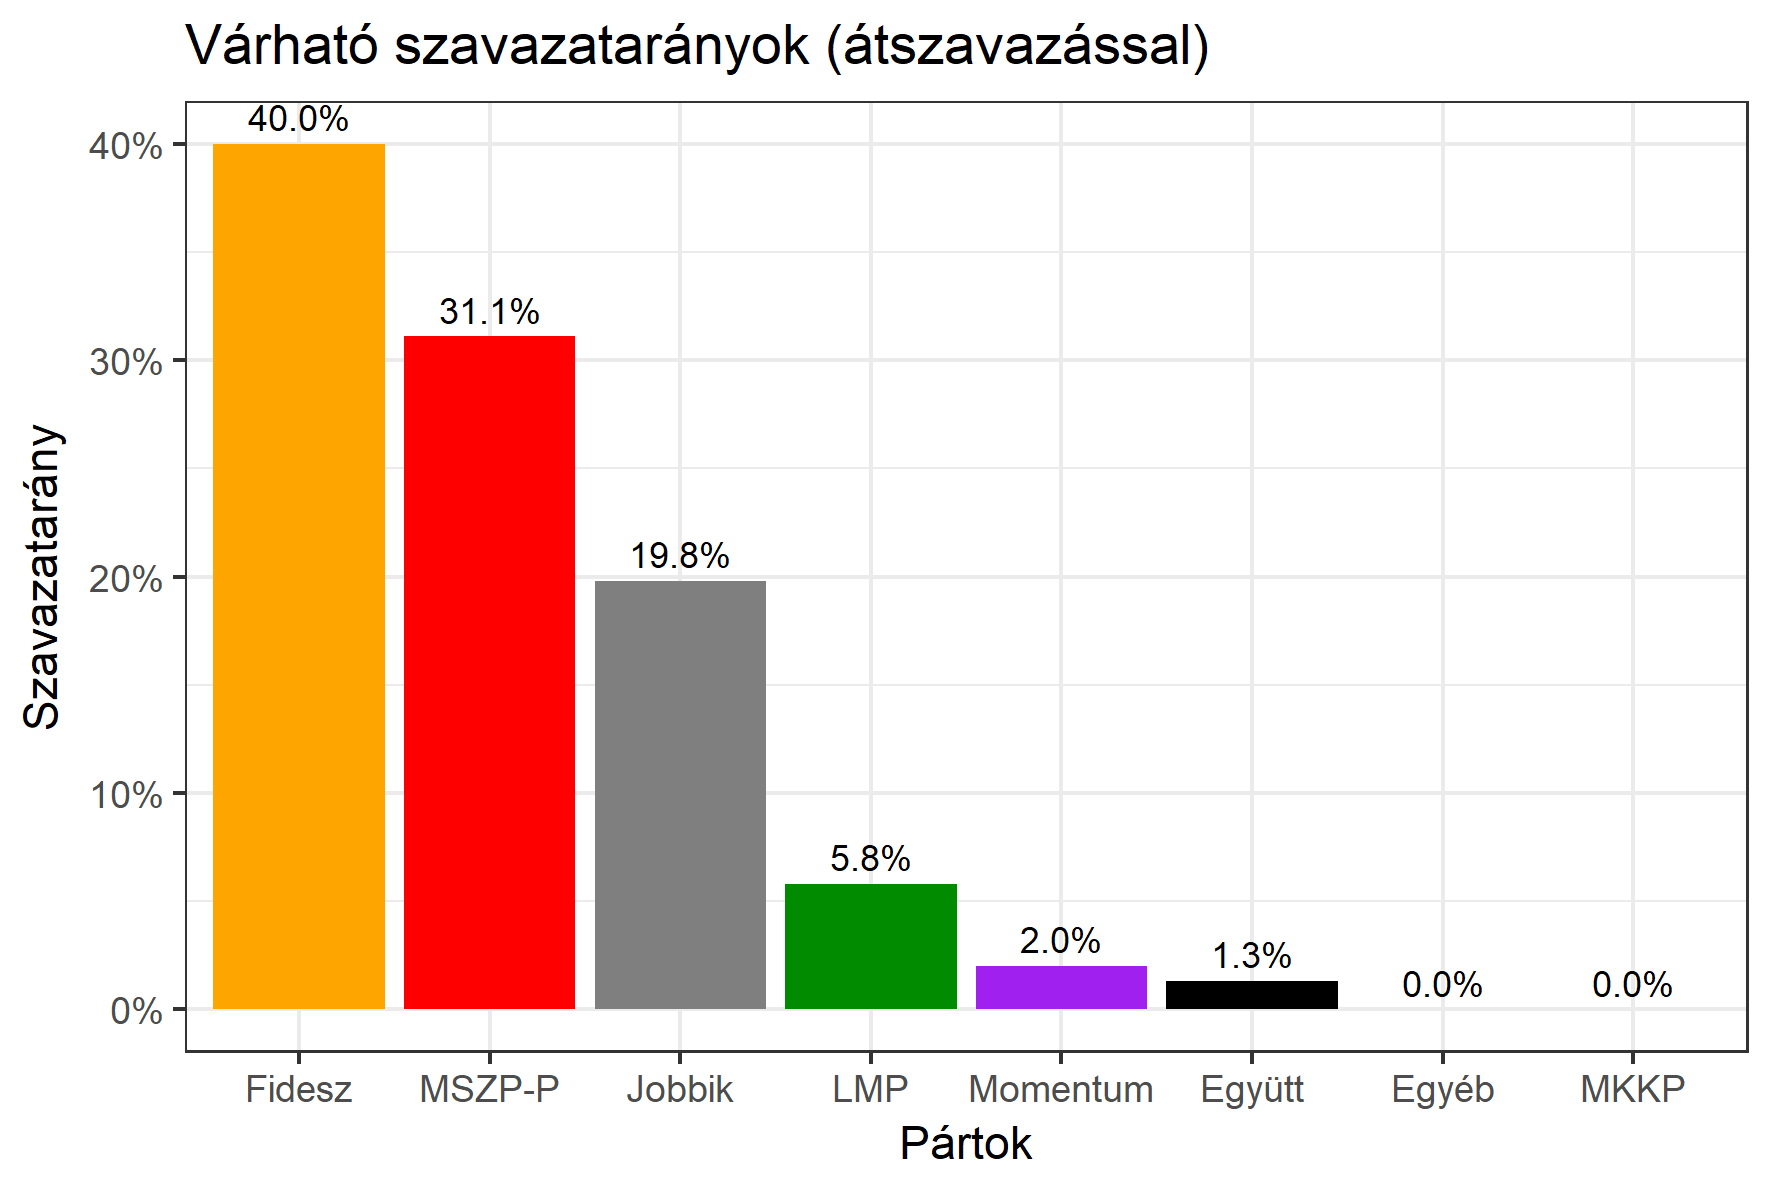
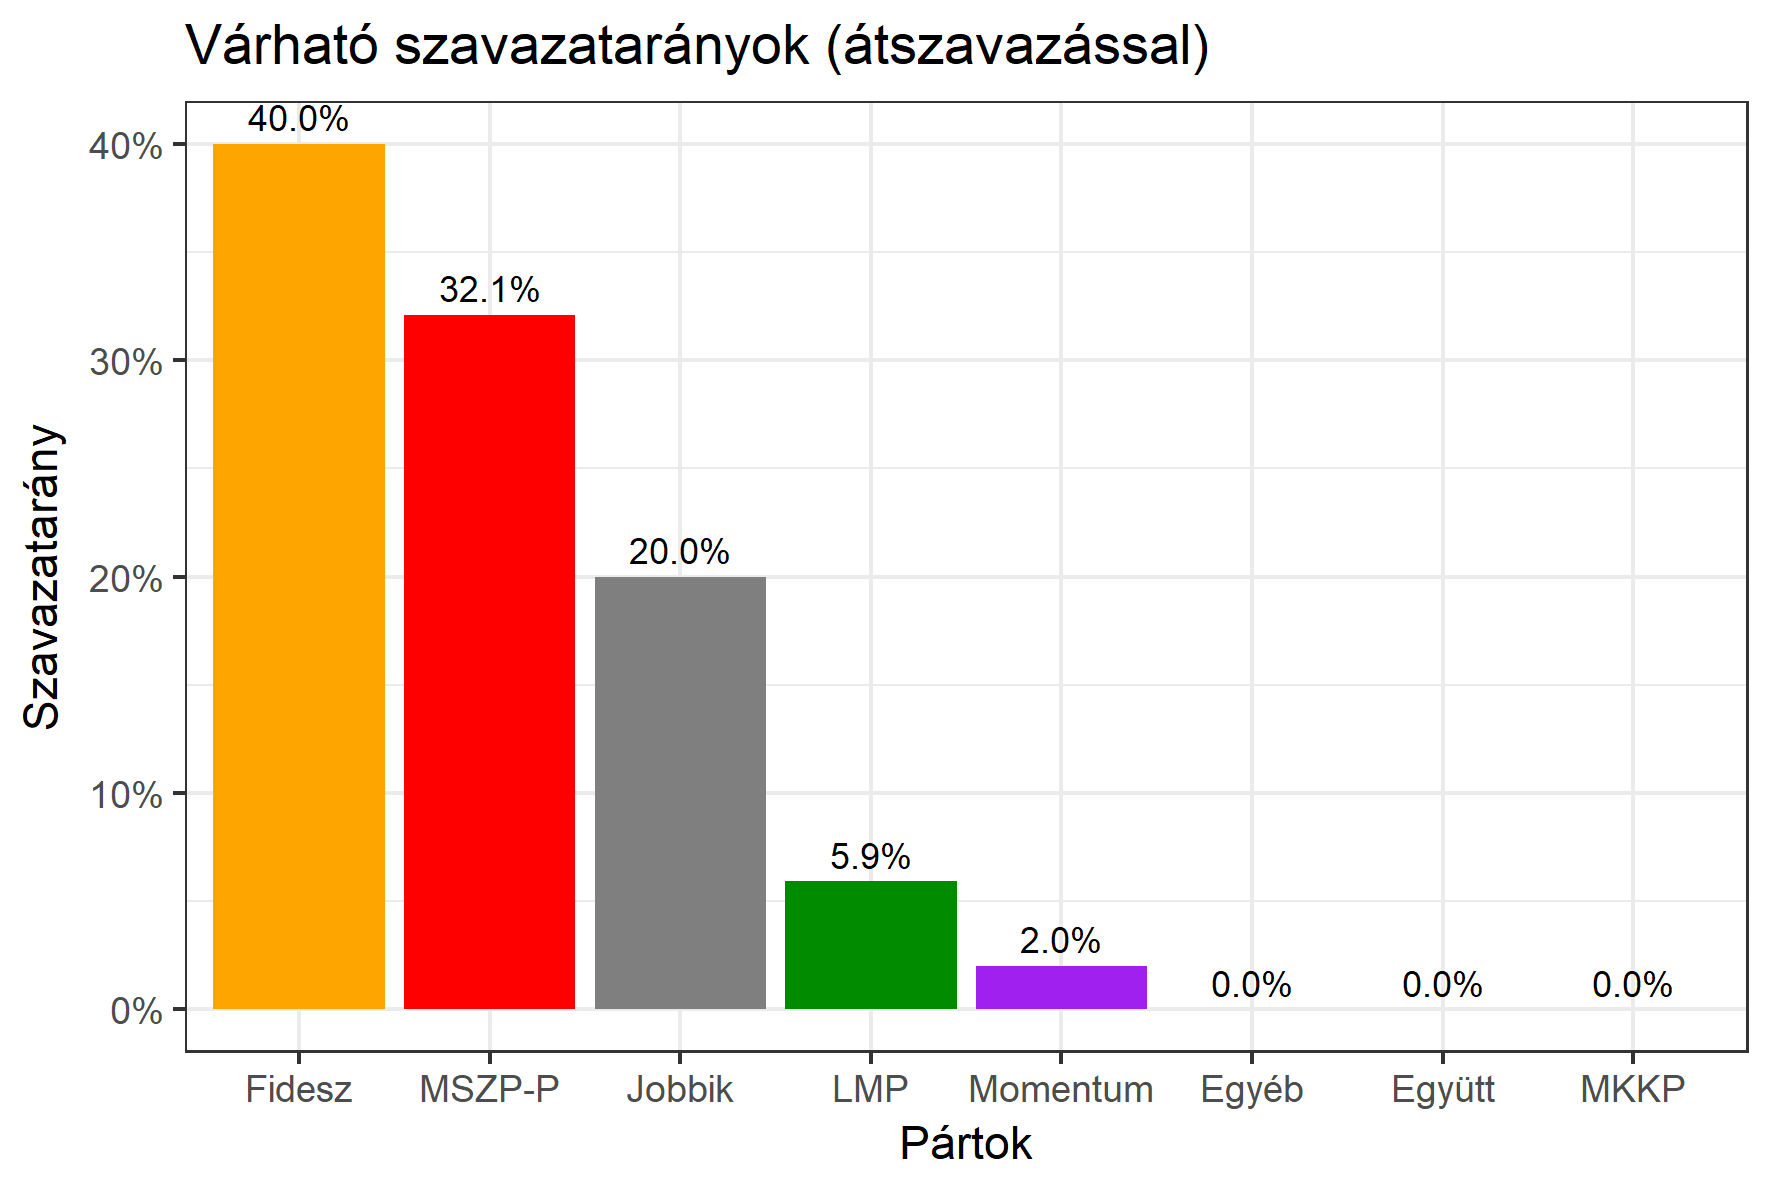
live 0406

diff --git a/pe8.md b/pe8.md
@@ -29,14 +29,14 @@ permalink: /pe8
                   <td>Bóna Zoltán - Fidesz-KDNP <img src="images/fideszkdnp_logo.png" style="width:55px;height:30px;"></td>
 				   <td id="id_fidesz">39.4% &emsp; <span id="id_fidesz2">(40.0%)</span></td>
 			</tr>
-			<tr><td>Lupa János - Jobbik <img src="images/jobbik_logo.png" style="width:23px;height:30px;"></td> <td id="id_jobbik">20.5% &emsp; <span id="id_jobbik2">(19.8%)</span></td></tr>
+			<tr><td>Lupa János - Jobbik <img src="images/jobbik_logo.png" style="width:23px;height:30px;"></td> <td id="id_jobbik">20.5% &emsp; <span id="id_jobbik2">(20.0%)</span></td></tr>
 <tr>
                   <td>Stefanik Zsolt - MSZP-Párbeszéd <img src="images/mszpparbeszed_logo.png" style="width:60px;height:30px;"></td>
-				   <td id="id_baloldal">25.2% &emsp; <span id="id_baloldal2">(31.1%)</span></td>
+				   <td id="id_baloldal">25.2% &emsp; <span id="id_baloldal2">(32.1%)</span></td>
 			</tr>
 			<tr>
                   <td>Hevényiné Danics Nikoletta - LMP <img src="images/lmp_logo.png" style="width:52px;height:30px;"></td>
-				   <td id="id_lmp">8.8% &emsp; <span id="id_lmp2">(5.8%)</span></td>
+				   <td id="id_lmp">8.8% &emsp; <span id="id_lmp2">(5.9%)</span></td>
 			</tr>
 			<tr>
 				  <td>Tótok József - Momentum <img src="images/momentum_logo.png" style="width:44px;height:30px;"></td>

diff --git a/pe5.md b/pe5.md
@@ -27,12 +27,12 @@ permalink: /pe5
               <tbody>
              <tr>
                   <td>Tuzson Bence - Fidesz-KDNP <img src="images/fideszkdnp_logo.png" style="width:55px;height:30px;"></td>
-				   <td id="id_fidesz">38.5% &emsp; <span id="id_fidesz2">(39.0%)</span></td>
+				   <td id="id_fidesz">38.5% &emsp; <span id="id_fidesz2">(39.3%)</span></td>
 			</tr>
-			<tr><td>Varga Zoltán Péter - Jobbik <img src="images/jobbik_logo.png" style="width:23px;height:30px;"></td> <td id="id_jobbik">17.3% &emsp; <span id="id_jobbik2">(16.7%)</span></td></tr>
+			<tr><td>Varga Zoltán Péter - Jobbik <img src="images/jobbik_logo.png" style="width:23px;height:30px;"></td> <td id="id_jobbik">17.3% &emsp; <span id="id_jobbik2">(17.0%)</span></td></tr>
 <tr>
                   <td>Rónai Sándor - DK <img src="images/dk_logo.png" style="width:34px;height:30px;"></td>
-				   <td id="id_baloldal">22.5% &emsp; <span id="id_baloldal2">(28.1%)</span></td>
+				   <td id="id_baloldal">22.5% &emsp; <span id="id_baloldal2">(29.6%)</span></td>
 			</tr>
 			<tr>
                   <td>dr. Kiss Csaba - LMP <img src="images/lmp_logo.png" style="width:52px;height:30px;"></td>

diff --git a/mandatumbecsles.md b/mandatumbecsles.md
@@ -485,7 +485,7 @@ permalink: /mandatumbecsles
 <tr><td><a href="../pe5">Pest megyei 5.</a></td>
 <td id="gyoztes_pe5">Fidesz</td>
 <td id="masodik_pe5">Rónai Sándor (DK)</td>
-<td id="kulonbseg_pe5">11.0%</td></tr>	
+<td id="kulonbseg_pe5">10.9%</td></tr>	
 <tr><td><a href="../pe6">Pest megyei 6.</a></td>
 <td id="gyoztes_pe6">Fidesz</td>
 <td id="masodik_pe6">Víg János (Jobbik)</td>
@@ -497,7 +497,7 @@ permalink: /mandatumbecsles
 <tr><td><a href="../pe8">Pest megyei 8.</a></td>
 <td id="gyoztes_pe8">Fidesz</td>
 <td id="masodik_pe8">Stefanik Zsolt (MSZP-Párbeszéd)</td>
-<td id="kulonbseg_pe8">9.0%</td></tr>	
+<td id="kulonbseg_pe8">7.9%</td></tr>	
 <tr><td><a href="../pe9">Pest megyei 9.</a></td>
 <td id="gyoztes_pe9">Fidesz</td>
 <td id="masodik_pe9">Bozsik József (Jobbik)</td>
